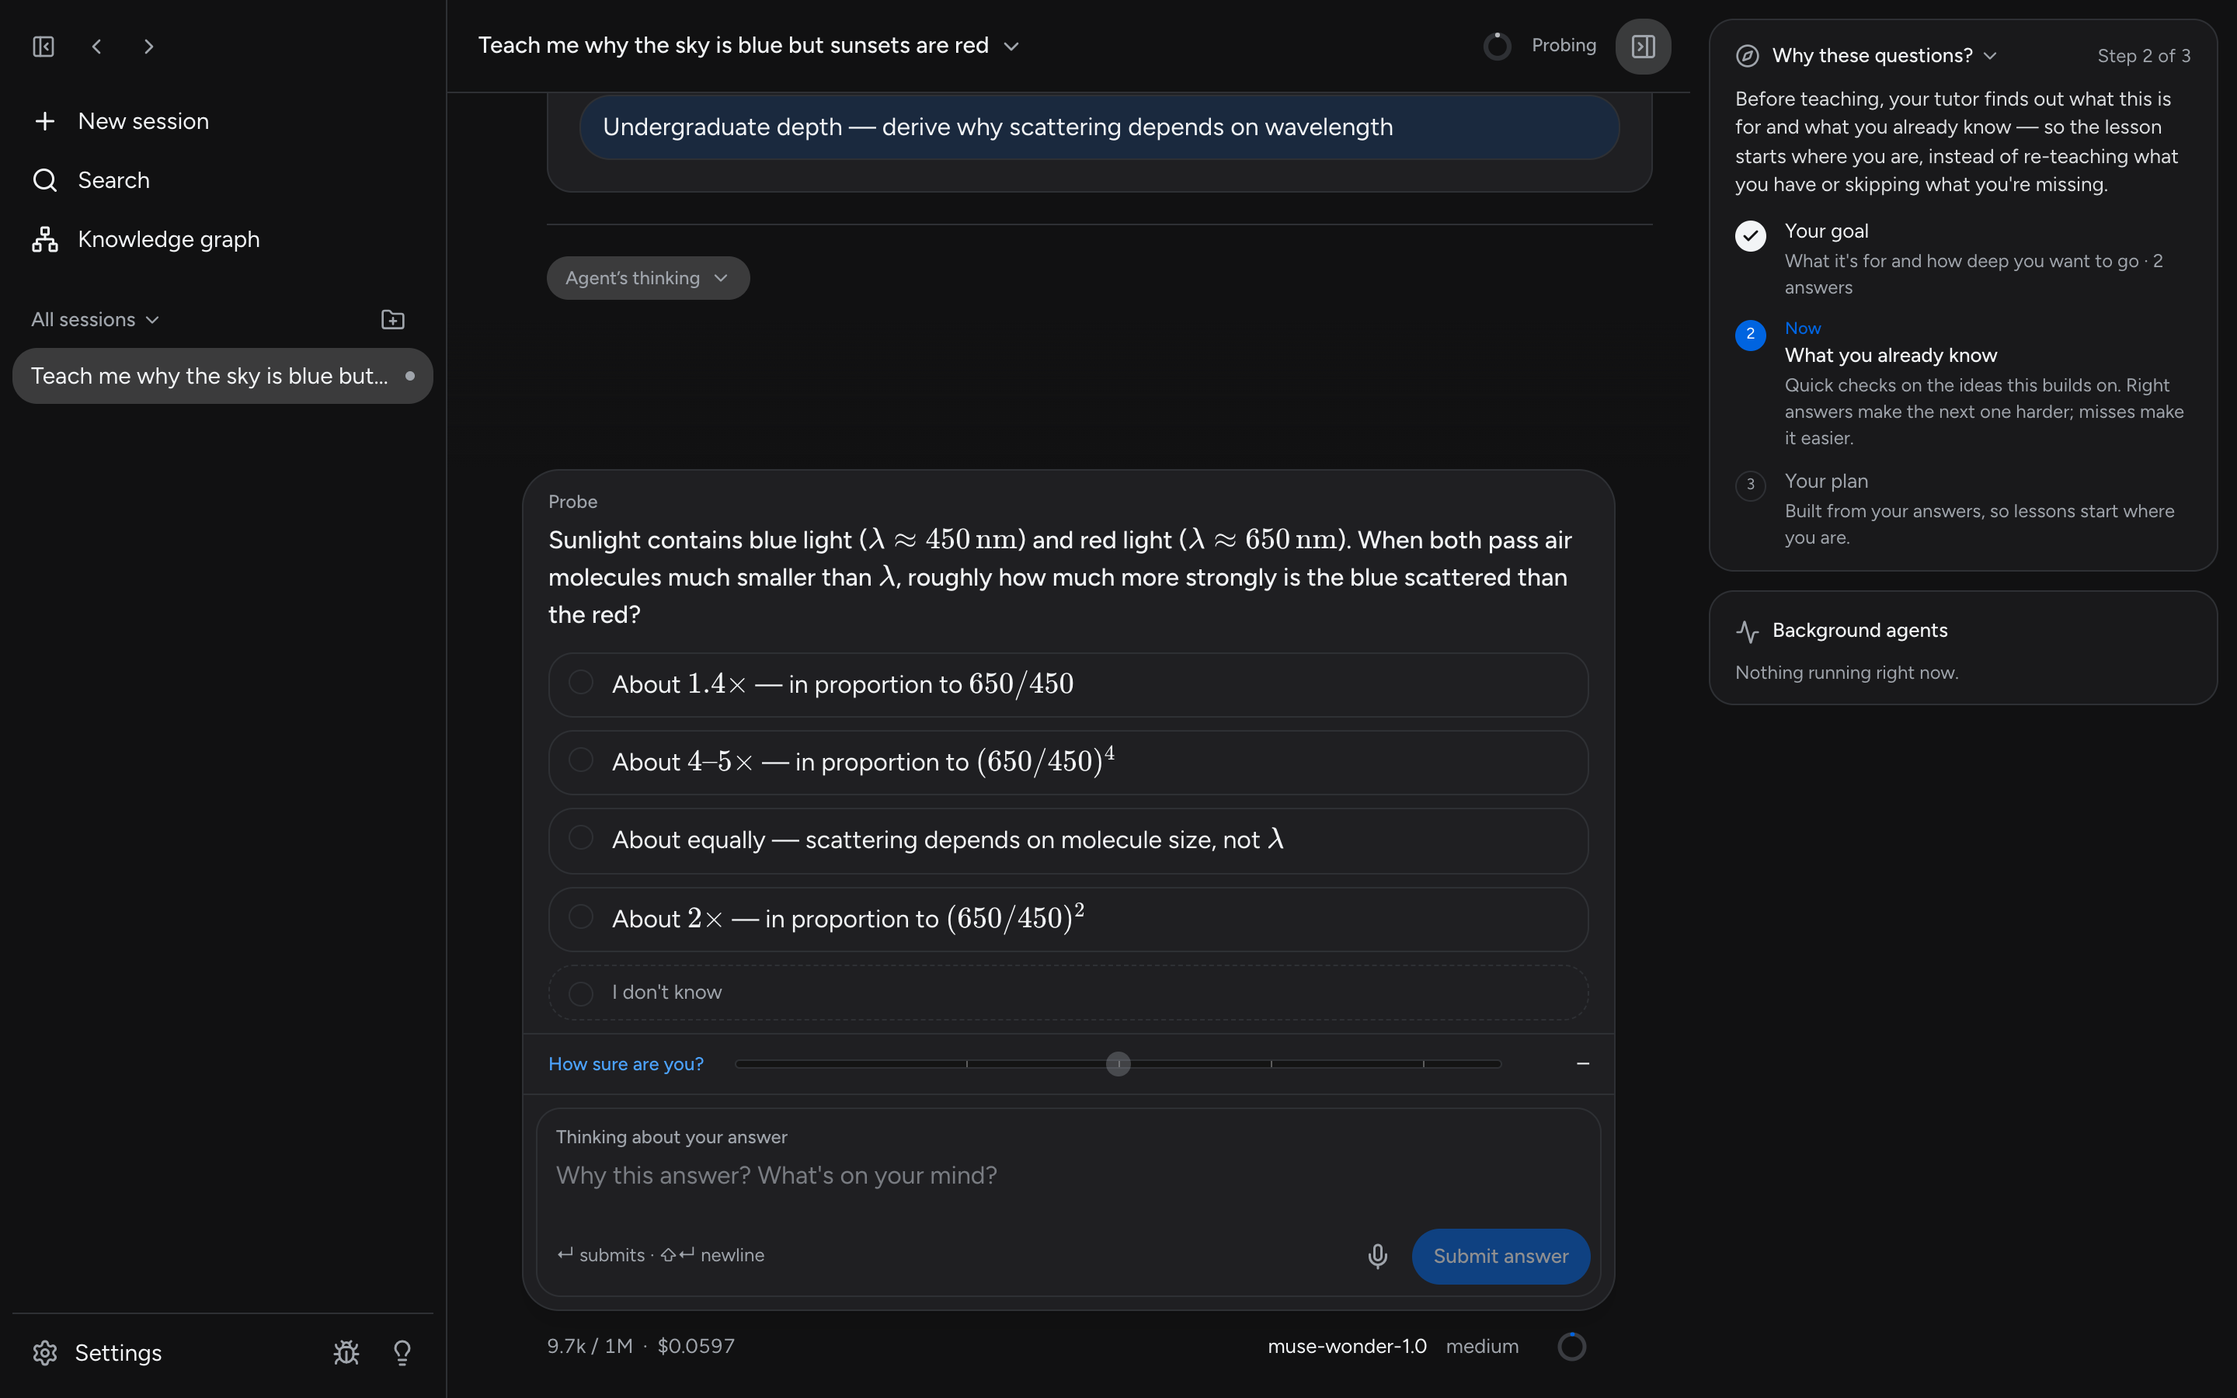
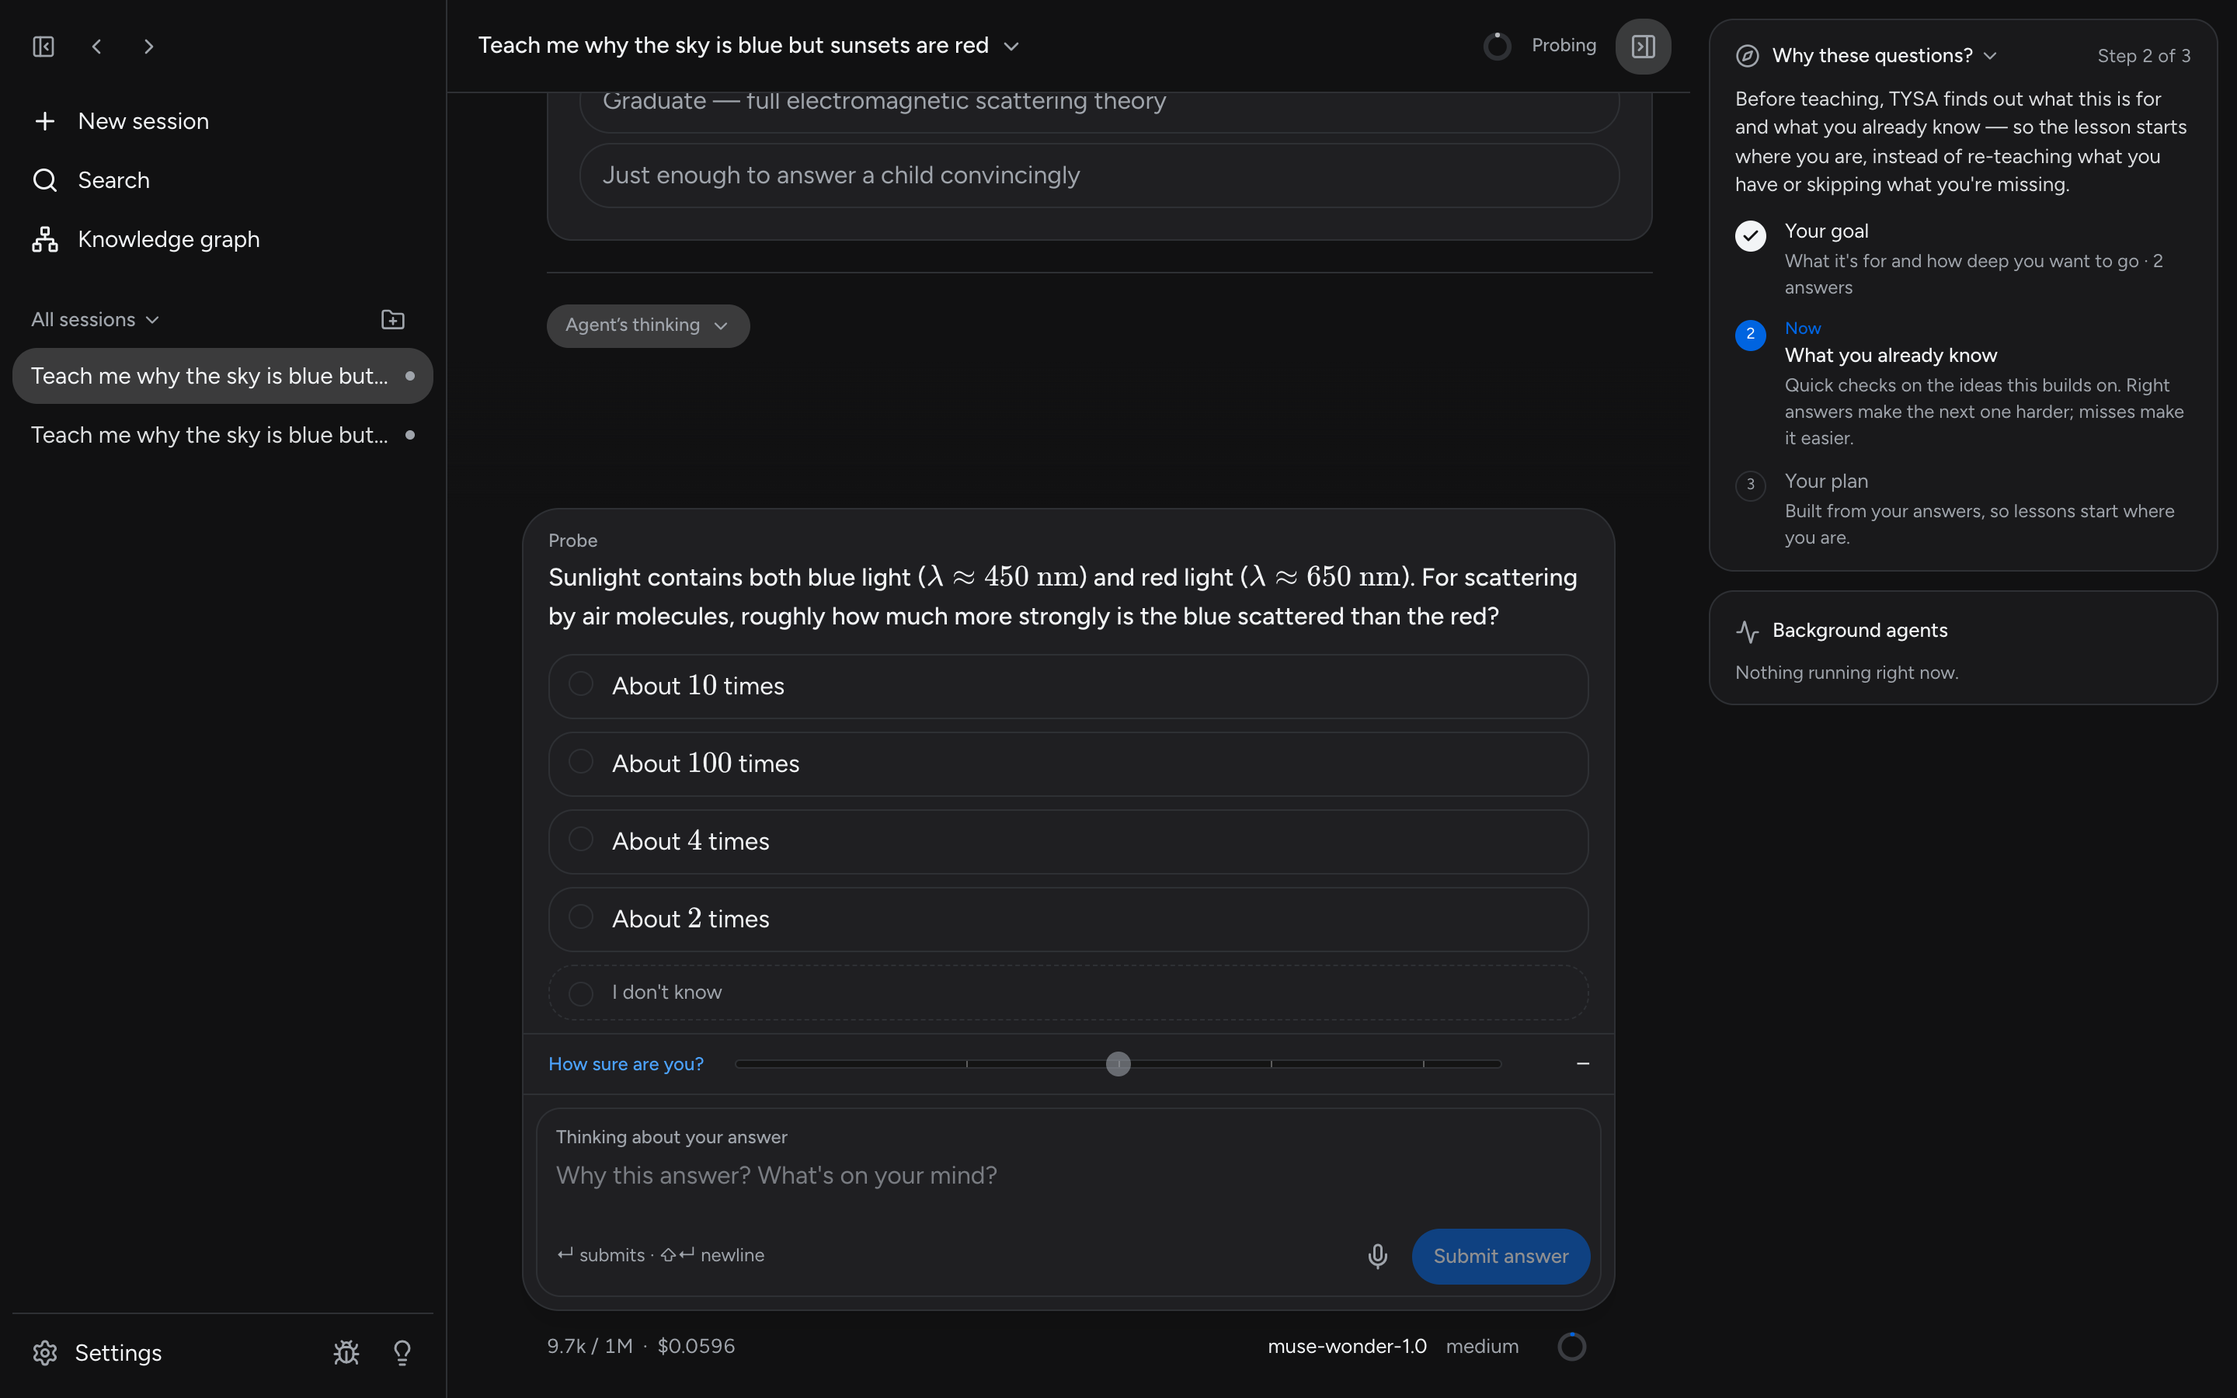
Describe TYSA as a learning harness, not an AI tutor
Reword the README, onboarding, probe guide, settings hints, desktop
messages and web manifest, and retake the probe screenshot.

diff --git a/apps/web/components/onboarding.tsx b/apps/web/components/onboarding.tsx
@@ -1,6 +1,6 @@
 /**
  * First-run onboarding: a full-screen, four-step flow that takes a new
- * learner from a fresh install to a tutor that already knows how they like
+ * learner from a fresh install to a harness that already knows how they like
  * to learn.
  *
  *   1. About — what TYSA is and what it's for.
@@ -105,7 +105,7 @@ const KEY_OPTIONS: { id: string; title: string; detail: string; url: string; url
 	},
 ];
 
-const SLOT_COPY: Record<ModelSlotName, string> = { strong: "Tutor", cheap: "Helpers", vision: "Pictures and PDFs" };
+const SLOT_COPY: Record<ModelSlotName, string> = { strong: "Teacher", cheap: "Helpers", vision: "Pictures and PDFs" };
 const SLOT_ORDER: readonly ModelSlotName[] = ["strong", "cheap", "vision"];
 
 const PREFERENCE_IDEAS = [
@@ -264,7 +264,7 @@ function AboutStep() {
 	return (
 		<div className="flex flex-col gap-10" data-testid="onboarding-about">
 			<Hero plain="Teach yourself" outlined="anything">
-				TYSA is a tutor that starts from what you already know. Tell it what you want to understand and it builds the lesson around you.
+				TYSA is a learning harness that starts from what you already know. Tell it what you want to understand and it builds the lesson around you.
 			</Hero>
 			<div className="flex flex-col gap-5">
 				{facts.map(([Icon, title, detail]) => (
@@ -791,7 +791,7 @@ function PreferencesStep({
 				</div>
 				<div className="flex items-center gap-3 pt-2">
 					<Button variant="ghost" className={PILL} disabled={busy || !text.trim()} onClick={onSave} data-testid="onboarding-preferences-save">
-						{busy ? "Tailoring…" : saved?.request ? "Update my tutor" : "Tailor my tutor"}
+						{busy ? "Tailoring…" : saved?.request ? "Update my teaching" : "Tailor my teaching"}
 					</Button>
 					{busy && <span className="text-xs text-muted-foreground">Your AI is writing a note for each part of TYSA.</span>}
 				</div>

diff --git a/apps/web/components/material-cards.tsx b/apps/web/components/material-cards.tsx
@@ -8,7 +8,7 @@ import { Textarea } from "@/components/ui/textarea";
 /**
  * Materials (2026-10-29): images and PDFs the learner attaches to a chat or
  * a course folder. The card follows a material's transcription live and
- * lets the learner read and correct the text the tutor will teach from;
+ * lets the learner read and correct the text TYSA will teach from;
  * the paperclip uploads into a chat or a folder (or, before a chat exists,
  * hands the picked files back to be attached once it does).
  */
@@ -123,7 +123,7 @@ export function MaterialCard({ data }: { data: MaterialMarkerData }) {
 			)}
 			{draft !== null && (
 				<div className="mt-3">
-					<p className="mb-1.5 text-xs text-muted-foreground">Fix any misread symbol or number — the tutor reads your version from the next message on.</p>
+					<p className="mb-1.5 text-xs text-muted-foreground">Fix any misread symbol or number — TYSA reads your version from the next message on.</p>
 					<Textarea aria-label="Transcription" value={draft} onChange={(e) => setDraft(e.target.value)} rows={16} className="font-mono text-xs" />
 					{saveError && <p className="mt-1 text-xs text-red-400">{saveError}</p>}
 					<div className="mt-2 flex justify-end gap-2">

diff --git a/apps/web/components/probe-guide-card.tsx b/apps/web/components/probe-guide-card.tsx
@@ -4,7 +4,7 @@ import type { PopupMessage } from "@/components/plan-block";
 import { cn } from "@/lib/utils";
 
 /**
- * The probe guide (2026-10-29): while the tutor is probing, the side panel
+ * The probe guide (2026-10-29): while TYSA is probing, the side panel
  * says why the session opens with questions instead of teaching — a first
  * session otherwise starts with an unexplained quiz. Its three steps follow
  * the probe live from the transcript: the goal (ask_user_question), the
@@ -137,7 +137,7 @@ export function ProbeGuideCard({ messages }: { messages: readonly PopupMessage[]
 			{!collapsed && (
 				<div className="mt-2">
 					<p className="text-sm text-foreground/90">
-						Before teaching, your tutor finds out what this is for and what you already know — so the lesson
+						Before teaching, TYSA finds out what this is for and what you already know — so the lesson
 						starts where you are, instead of re-teaching what you have or skipping what you're missing.
 					</p>
 

diff --git a/apps/web/components/onboarding-picks.ts b/apps/web/components/onboarding-picks.ts
@@ -23,7 +23,7 @@ const PROVIDER_ORDER: readonly string[] = [
 	"ollama",
 ];
 
-/** Names that mark a small, fast model — wrong for the tutor, right for
+/** Names that mark a small, fast model — wrong for the teacher, right for
  *  the helpers. */
 const SMALL = /(mini|nano|lite|flash|haiku|small|tiny|fast|contributor|\b[1-9]b\b|:[1-9]b)/i;
 /** Names that mark a model nobody should get by default. */
@@ -34,7 +34,7 @@ export function providerRank(provider: string): number {
 	return i === -1 ? PROVIDER_ORDER.length : i;
 }
 
-/** Higher = better for the tutor: reasoning, big context, not small,
+/** Higher = better for the teacher: reasoning, big context, not small,
  *  pricier (a rough proxy for capability within one provider). */
 function strongScore(m: ModelCatalogEntry): number {
 	return (

diff --git a/apps/web/components/settings/agent-section.tsx b/apps/web/components/settings/agent-section.tsx
@@ -735,7 +735,7 @@ export function AgentSection({
 					return (
 						<SettingsRow
 							label="Graph tools"
-							hint={graphOn ? "Lets the tutor consult your knowledge map between sessions" : "Graph is disabled"}
+							hint={graphOn ? "Lets TYSA consult your knowledge map between sessions" : "Graph is disabled"}
 							testid="graph-tools-row"
 							dimmed={!graphOn}
 						>
@@ -757,7 +757,7 @@ export function AgentSection({
 					return (
 						<SettingsRow
 							label="Quizzing"
-							hint="How both tutors check your understanding"
+							hint="How the teaching and practice agents check your understanding"
 							testid="quiz-mechanics-row"
 						>
 							<div

diff --git a/packages/engine/src/http/routes/preferences.ts b/packages/engine/src/http/routes/preferences.ts
@@ -24,7 +24,7 @@ export async function PUT(req: Request) {
 	try {
 		return Response.json(await generatePreferences(body.text, { signal: req.signal }));
 	} catch (error) {
-		const message = error instanceof PreferencesError ? error.message : "The preferences could not be saved. Your tutor keeps its default prompts.";
+		const message = error instanceof PreferencesError ? error.message : "The preferences could not be saved. TYSA keeps its default prompts.";
 		return Response.json({ error: message }, { status: 400 });
 	}
 }

diff --git a/packages/engine/src/server/preferences.ts b/packages/engine/src/server/preferences.ts
@@ -29,7 +29,7 @@ export interface PreferencesView {
 const REQUEST_FILE = () => path.join(FILES.preferencesDir, "request.txt");
 const REQUEST_MAX_CHARS = 4000;
 
-const SYSTEM_PROMPT = `You configure an AI tutoring app from a learner's description of how they like to learn.
+const SYSTEM_PROMPT = `You configure TYSA, a learning harness, from a learner's description of how they like to learn.
 
 The app has these agents:
 - prober: asks diagnostic questions to find what the learner already understands, before any teaching.

diff --git a/apps/web/components/artifacts/textbook-cards.tsx b/apps/web/components/artifacts/textbook-cards.tsx
@@ -23,7 +23,7 @@ const QUIET_PILL =
 	"inline-flex h-8 items-center gap-1.5 rounded-full bg-(--pill) px-3.5 text-sm font-medium text-foreground transition-colors hover:bg-(--pill-hover)";
 
 /** The waiting pose's Continue, repeated at the transcript's end once a
- *  delivered figure (and the tutor's reply to it) pushed the card up. */
+ *  delivered figure (and the teacher's reply to it) pushed the card up. */
 export function TextbookContinueBar({
 	tool,
 	onContinue,

diff --git a/apps/web/components/onboarding-art.tsx b/apps/web/components/onboarding-art.tsx
@@ -73,7 +73,7 @@ function Models() {
 function Preferences() {
 	return (
 		<>
-			{/* A speech bubble over three sliders: say it, and the tutor adjusts. */}
+			{/* A speech bubble over three sliders: say it, and TYSA adjusts. */}
 			<rect x="72" y="60" width="256" height="116" rx="32" {...line} />
 			<rect x="104" y="96" width="140" height="10" rx="5" {...solid} />
 			<rect x="104" y="120" width="96" height="10" rx="5" {...soft} />

diff --git a/README.md b/README.md
@@ -2,7 +2,7 @@
 
 <p align="center"><em>Teach Yourself Anything</em></p>
 
-<p align="center"><strong>An AI tutor that finds where your understanding ends, and teaches from there.</strong></p>
+<p align="center"><strong>A learning harness that finds where your understanding ends, and teaches from there.</strong></p>
 
 <p align="center">
   <a href="https://github.com/Akas333/TYSA/releases/latest"><img alt="Latest release" src="https://img.shields.io/github/v/release/Akas333/TYSA?label=download"></a>
@@ -18,9 +18,9 @@
   <a href="#architecture">Architecture</a>
 </p>
 
-Most AI tutors explain. TYSA first measures what *you* already understand, plans a path from there to your goal, and teaches one reasoning step at a time, changing the plan as soon as your answers show it was wrong about you. Two people asking the same question get two different lessons, and the app shows why.
+Most AI learning tools just explain. TYSA is an engineered learning harness: it first measures what *you* already understand, plans a path from there to your goal, and teaches one reasoning step at a time, changing the plan as soon as your answers show it was wrong about you. Two people asking the same question get two different lessons, and the app shows why.
 
-Built on Meta's Muse models for the **Meta Global AI Developer Hackathon** (Indie Devloper Track).
+Built on Meta's Muse models for the **Meta Global AI Developer Hackathon** (Indie Developer track).
 
 ![The lesson plan: a dependency map from what the learner already knows to the goal, waiting for them to confirm it](docs/assets/screenshot-plan.png)
 
@@ -48,16 +48,16 @@ Open the `.dmg` and drag **TYSA** into **Applications** (Mac), or run the `.exe`
 
 ## How it works
 
-1. **Measure.** Before teaching, the tutor asks what the lesson is for, then probes each idea the goal depends on. Your answer, how sure you are, and your own explanation of your thinking show it where your understanding ends.
+1. **Measure.** Before teaching, TYSA asks what the lesson is for, then probes each idea the goal depends on. Your answer, how sure you are, and your own explanation of your thinking show it where your understanding ends.
 2. **Plan.** It builds a visible dependency map from that starting point to the goal. You confirm it or ask for changes before anything is taught.
 3. **Teach.** Each step builds on something you already understand. You predict, get an explanation, then check your understanding. Confusions are repaired before anything is built on them, and the plan changes when your answers surprise it.
 4. **Practice.** Separate sessions pose varied problems where you must recall the right idea without being told which one. Hints adapt to how you reason.
 
 ![Measuring: a probe question with a confidence slider and a field for the learner's reasoning](docs/assets/screenshot-probe.png)
 
-**Think out loud.** Every question has a field for your reasoning and doubts, typed or dictated. That gives the tutor a picture of *how* you think, not just a record of right and wrong answers.
+**Think out loud.** Every question has a field for your reasoning and doubts, typed or dictated. That gives TYSA a picture of *how* you think, not just a record of right and wrong answers.
 
-![Teaching: the tutor works through the confirmed plan one concept at a time, with a check before the answer options appear](docs/assets/screenshot-teaching.png)
+![Teaching: TYSA works through the confirmed plan one concept at a time, with a check before the answer options appear](docs/assets/screenshot-teaching.png)
 
 ## Knowledge that carries forward
 
@@ -76,13 +76,13 @@ Each Meta model does a separate job in the teaching loop. All of them go through
 
 | Model | Role in TYSA | Status |
 |---|---|---|
-| **Muse Spark** | The tutor: measures understanding, plans, teaches, runs practice | Working |
+| **Muse Spark** | The teaching agent: measures understanding, plans, teaches, runs practice | Working |
 | **Muse Spark Contributor** | Low-cost background agents: building the knowledge graph, grading, research | Working |
 | **Muse Wonder** | Optional upgrade for the hardest planning | Working |
 | **Muse Voice Transcribe** | Dictation: speak your answers and thinking, streamed in real time | Working |
 | **SAM 3.1** | "Tap the part that…" questions on diagrams, graded against the real outline | In progress |
 | **Muse Image** | Pictures drawn for the learner's specific confusion, checked before they're shown | In progress |
-| **Llama** (open weights, via Ollama) | The same tutor running fully offline, no key needed | Working (pick a model that supports tools) |
+| **Llama** (open weights, via Ollama) | The same harness running fully offline, no key needed | Working (pick a model that supports tools) |
 
 TYSA also works with Google Gemini, Claude and OpenAI keys, and with ChatGPT, GitHub Copilot or Grok subscriptions. Other providers are supported underneath but hidden by default; set `AXIOM_ALL_PROVIDERS=1` to show them in Settings.
 
@@ -92,7 +92,7 @@ TYSA also works with Google Gemini, Claude and OpenAI keys, and with ChatGPT, Gi
 - **Stored locally.** Lessons, the knowledge graph, settings and keys live on your computer as plain files (`~/Library/Application Support/TYSA` on a Mac, `%APPDATA%\TYSA` on Windows).
 - **What leaves your machine.** Model requests send the context each task needs to the provider you picked. Dictation sends audio to Meta. Web research contacts search providers.
 - **Portable.** **Settings → Your data → Export** saves everything except your API keys into one passphrase-encrypted `.tysa` file. **Import** it on another computer; the data already there is backed up first.
-- **Inspectable.** The tutor's system prompts are visible and editable in Settings.
+- **Inspectable.** Every agent's system prompts are visible and editable in Settings.
 
 ## Run from source
 
@@ -108,7 +108,7 @@ npm start
 
 From source, keys are saved in `packages/engine/auth.json` (ignored by git) and data in `packages/engine/data`. You can also set `META_API_KEY` in the environment.
 
-**Offline with Ollama:** install [Ollama](https://ollama.com), run `ollama pull llama3.1`, and pick the local model in **Settings → Agent**. Set `OLLAMA_HOST` if Ollama isn't at `http://127.0.0.1:11434`. Small local models handle the tutor's tool calls less reliably than Muse Spark.
+**Offline with Ollama:** install [Ollama](https://ollama.com), run `ollama pull llama3.1`, and pick the local model in **Settings → Agent**. Set `OLLAMA_HOST` if Ollama isn't at `http://127.0.0.1:11434`. Small local models handle the agents' tool calls less reliably than Muse Spark.
 
 **Desktop app:** `npm start -w @axiom/desktop` runs it; `npm run dist -w @axiom/desktop` builds an installer for your computer. Pushing a `v*` tag builds every installer and publishes a GitHub release ([workflow](.github/workflows/release.yml), which also explains how to add code signing).
 
